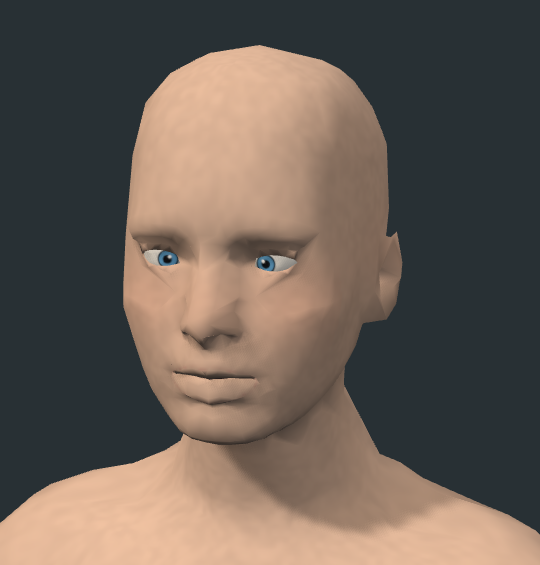
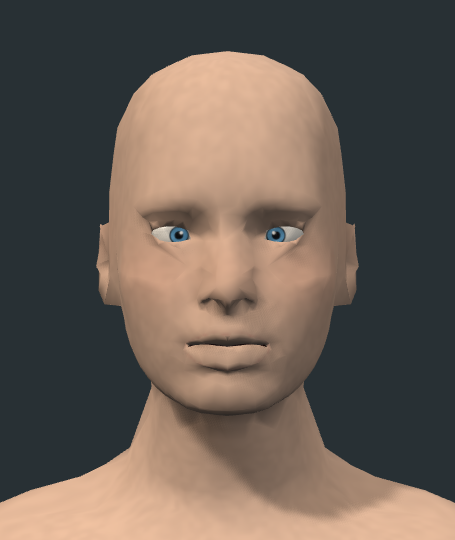
Add another historical character comparison

diff --git a/work/character-model-search/README.md b/work/character-model-search/README.md
@@ -1,6 +1,6 @@
 # Поиск старой голубоглазой модели
 
-В истории проекта нашлись два разных старых женских персонажа с голубыми глазами. Это **кандидаты для узнавания**, а не утверждение, что найден именно тот вариант, который вы имели в виду. Никакие модели и колодец не изменялись; новые здесь только снимки экрана.
+В истории проекта нашлись три старых версии женских персонажей с голубыми глазами. Это **кандидаты для узнавания**, а не утверждение, что найден именно тот вариант, который вы имели в виду. Никакие модели и колодец не изменялись; новые здесь только снимки экрана.
 
 ## Вариант А — модель из архива 13 ноября
 
@@ -22,8 +22,24 @@
 
 ![Вариант Б — лицо](candidate-b-face.png)
 
+[В полный рост](candidate-b-full.png) · [Сзади](candidate-b-back.png)
+
 - [Скачать исходный GLB](https://github.com/IAmStarhead/Blades-Of-War/raw/f884ef2bcc698f857d5b676e6a53d9c0c5a1e1fb/assets/models/female_styled.glb)
 - [Исходный архив с редактором и моделями](https://github.com/IAmStarhead/Blades-Of-War/blob/f884ef2bcc698f857d5b676e6a53d9c0c5a1e1fb/BladesOfWar_styled_creator.zip)
 - [Коммит от 13 ноября 2026](https://github.com/IAmStarhead/Blades-Of-War/commit/f884ef2bcc698f857d5b676e6a53d9c0c5a1e1fb)
 
 У этой версии есть скелет, но отдельных клипов анимации в GLB нет.
+
+## Вариант В — ранняя «Ева» с ригом
+
+Близкая к варианту А более поздняя версия из той же истории: тоже голубые глаза, но файл уже со скелетом. Снимок — из её исходной витрины, выбран пресет «Златодвор»:
+
+![Вариант В — лицо](candidate-c-face.png)
+
+[В полный рост](candidate-c-full.png) · [Сзади](candidate-c-back.png)
+
+- [Скачать исходный GLB](https://github.com/IAmStarhead/Blades-Of-War/raw/4f278ec9d8c4ccd28b9b312764d26146e25e17a9/assets/models/female_fixed.glb)
+- [Исходный архив с витриной и моделями](https://github.com/IAmStarhead/Blades-Of-War/blob/4f278ec9d8c4ccd28b9b312764d26146e25e17a9/BladesOfWar_Adam_Eve_Showcase.zip)
+- [Коммит от 13 ноября 2026](https://github.com/IAmStarhead/Blades-Of-War/commit/4f278ec9d8c4ccd28b9b312764d26146e25e17a9)
+
[1 lines of base64/hex data omitted]
